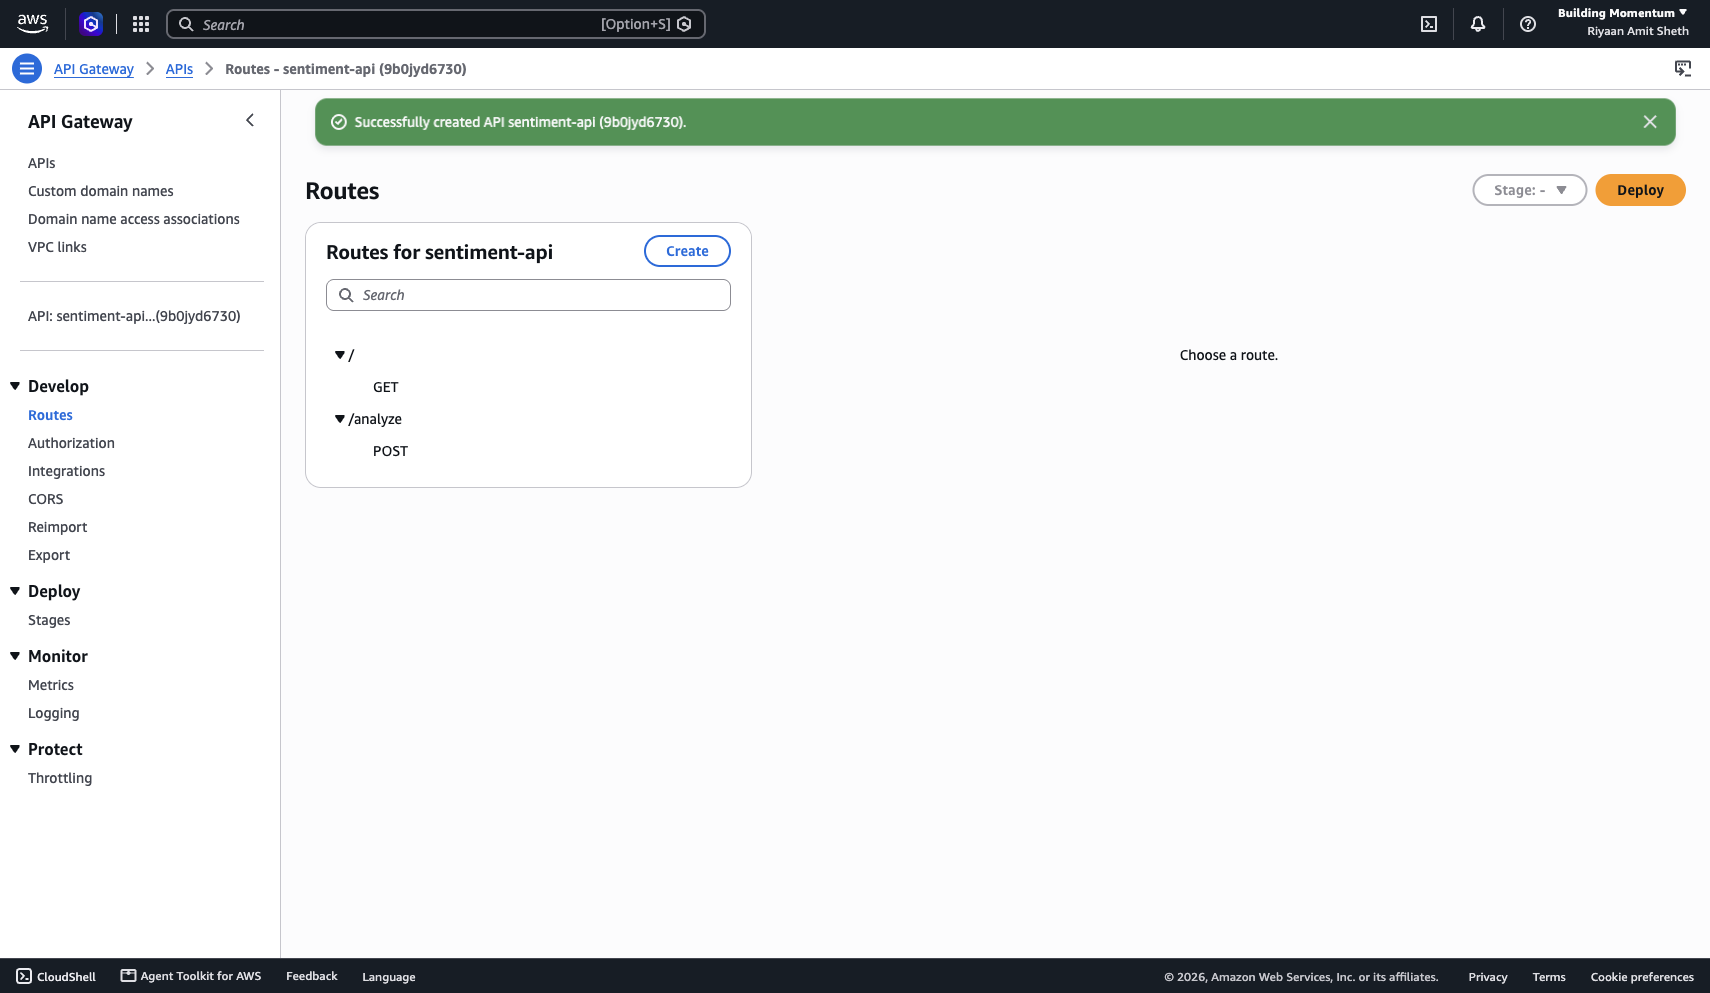
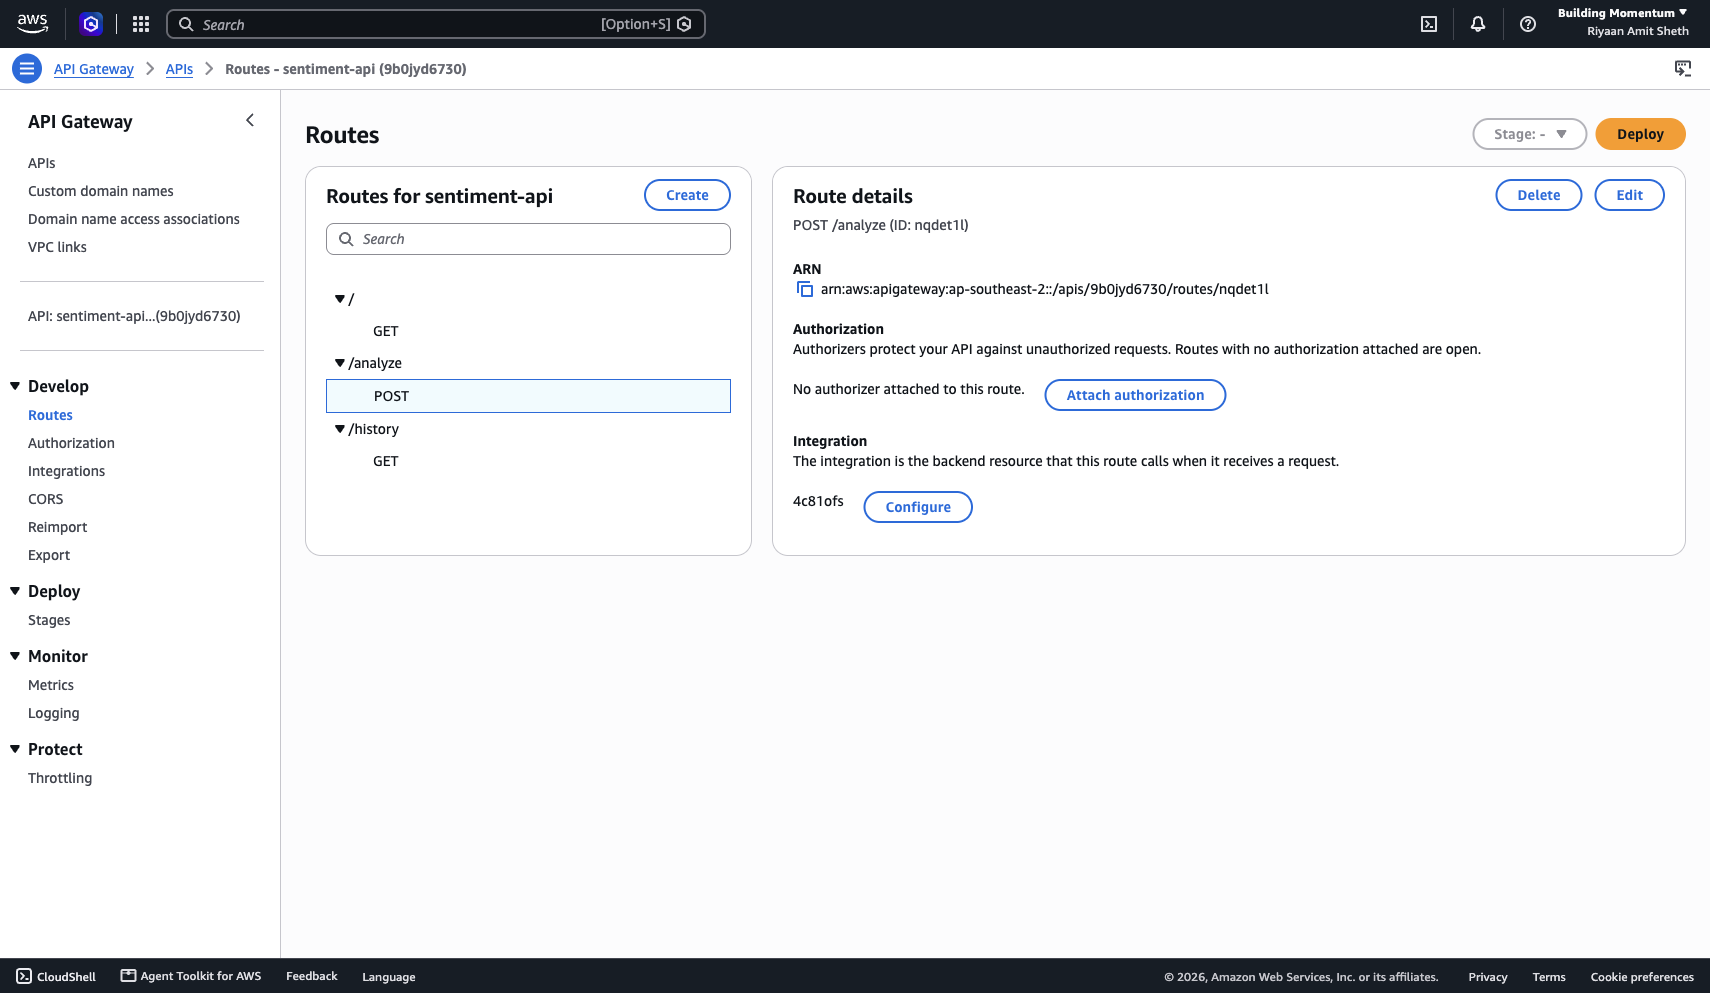
README/DEPLOY: final architecture, live URL, screenshots

diff --git a/README.md b/README.md
@@ -1,22 +1,32 @@
 # Sentiment Analysis Web App (AWS Serverless)
 
-Cloud Application Development mini-project. Paste text, get sentiment (POSITIVE / NEGATIVE / NEUTRAL / MIXED) with confidence scores.
+Cloud Application Development mini-project. Paste text, get sentiment (POSITIVE / NEGATIVE / NEUTRAL / MIXED) with scores. Every result is stored in S3 and DynamoDB, and a History view reads them back.
+
+**Live:** https://9b0jyd6730.execute-api.ap-southeast-2.amazonaws.com/
 
 ## Architecture
-Browser → API Gateway (HTTP API) → Lambda (Python 3.12) → Comprehend `DetectSentiment`
-                                        └→ S3 (stores every result as JSON)
+```
+Browser ──GET /────────▶ API Gateway (HTTP API) ──▶ Lambda ──▶ returns HTML page
+Browser ──POST /analyze▶ API Gateway ──────────────▶ Lambda ──▶ score text
+                                                       ├──▶ S3  results/<uuid>.json
+                                                       └──▶ DynamoDB SentimentResults
+Browser ──GET /history─▶ API Gateway ──────────────▶ Lambda ──▶ DynamoDB scan
+```
 
 ## AWS services (4)
 | Service | Role |
 |---|---|
-| Amazon API Gateway | Public HTTPS endpoint, routes GET / and POST /analyze |
-| AWS Lambda | Serves the frontend on GET, runs analysis on POST |
-| Amazon Comprehend | NLP sentiment detection |
-| Amazon S3 | Persists results (`results/<uuid>.json`) |
+| Amazon API Gateway | Public HTTPS endpoint, routes GET /, POST /analyze, GET /history |
+| AWS Lambda (Python 3.14) | Serves the frontend, scores sentiment, writes results |
+| Amazon DynamoDB | Stores each result as an item (partition key `id`) |
+| Amazon S3 | Stores each result as a JSON object under `results/` |
 
-Plus IAM (execution role) and CloudWatch Logs. Region: ap-southeast-2. All free tier.
+Also IAM (execution role) and CloudWatch Logs. Region: ap-southeast-2. All AWS Free Plan.
+
+## Why no Comprehend
+The account is on the AWS Free Plan, whose organisation Service Control Policy explicitly denies `comprehend:DetectSentiment` (error captured during testing). The scorer is a lexicon with negation handling inside Lambda; swapping it for `comprehend.detect_sentiment` is a one-line change on a paid account.
 
 ## Files
-- `lambda_function.py` – entire backend + embedded frontend
+- `lambda_function.py` – entire backend + embedded frontend. Run `python3 lambda_function.py` for the self-check.
 - `DEPLOY.md` – console deploy steps
 - `screenshots/` – deployment evidence for the report

diff --git a/DEPLOY.md b/DEPLOY.md
@@ -1,31 +1,27 @@
-# Deploy (AWS console, ~30 min, free tier)
-
-Region: us-east-1 (Comprehend not in ap-south-1 Mumbai)
+# Deploy (AWS console, ap-southeast-2, Free Plan)
 
 ## 1. S3
-- Create bucket `sentiment-<yourname>` (unique). Keep defaults.
-- Later: upload index.html, enable Static website hosting (Properties), uncheck Block public access, add policy:
-  {"Version":"2012-10-17","Statement":[{"Effect":"Allow","Principal":"*","Action":"s3:GetObject","Resource":"arn:aws:s3:::sentiment-<yourname>/index.html"}]}
+Create bucket `sentiment-app-riyaan`, all defaults (private).
 
-## 2. Lambda
-- Create function → Author from scratch → `sentimentFn`, Python 3.12.
-- Paste lambda_function.py, Deploy.
-- Configuration → Environment variables → BUCKET = sentiment-<yourname>
-- Configuration → Permissions → click role → Add permissions → attach:
-  - ComprehendReadOnly
-  - AmazonS3FullAccess (or scope to your bucket)
-- Timeout: 10 s.
+## 2. DynamoDB
+Create table `SentimentResults`, partition key `id` (String), default settings (on-demand).
 
-## 3. API Gateway
-- Create API → HTTP API → Add integration: Lambda → sentimentFn.
-- Route: POST /analyze. Stage: $default, auto-deploy.
-- CORS: Access-Control-Allow-Origin *, Allow-Headers *, Allow-Methods POST,OPTIONS.
-- Copy Invoke URL → paste `<invoke-url>/analyze` into index.html API const.
+## 3. Lambda
+- Create function `sentimentFn`, Python 3.14, author from scratch.
+- Code → Update → Upload .zip → `function.zip` (zip of lambda_function.py).
+- Configuration → Environment variables: `BUCKET=sentiment-app-riyaan`, `TABLE=SentimentResults`.
+- Configuration → General → Timeout 15 s.
+- Permissions: execution role must allow s3:PutObject on the bucket and dynamodb:PutItem/Scan on the table. (Free Plan default role `PowerUserRole` already has this.)
 
-## 4. Test
-curl -X POST <invoke-url>/analyze -H "content-type: application/json" -d '{"text":"I love this course"}'
-→ {"sentiment":"POSITIVE","scores":{...}}
+## 4. API Gateway
+- Create HTTP API `sentiment-api`, integration = Lambda `sentimentFn`.
+- Routes: `GET /`, `POST /analyze`, `GET /history`, all → sentimentFn.
+- Stage `$default`, auto-deploy.
 
-Check S3 → results/ has a JSON per request. Screenshot everything for the report.
-
-## Services used (4): S3, Lambda, API Gateway, Comprehend (+ IAM, CloudWatch logs)
+## 5. Test
+```
+U=https://<api-id>.execute-api.ap-southeast-2.amazonaws.com
+curl $U/                       # HTML page
+curl -X POST $U/analyze -H "content-type: application/json" -d '{"text":"I love this"}'
+curl $U/history
+```
